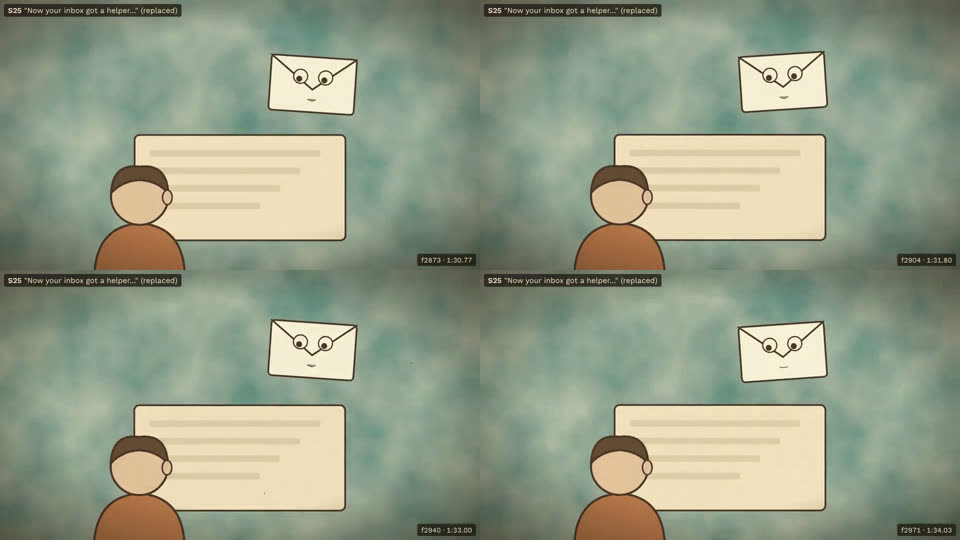
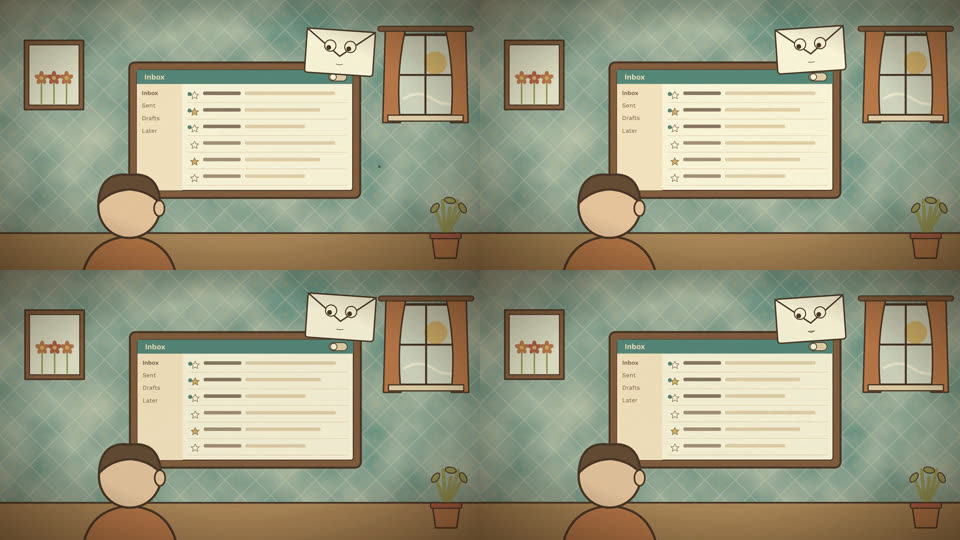
M4 section 6 (Verse 2): study, hallway and living-room sets; inbox, calendar, cat, TV
Claude-Session: https://claude.ai/code/session_01U1tVYjDQe516Mp7MHbmFPv

diff --git a/remotion/src/shots/Lesson.tsx b/remotion/src/shots/Lesson.tsx
@@ -3,6 +3,7 @@
 import React from "react";
 import { Wash } from "../film/Paper";
 import { Caption, Chalkboard, Door, Envelope, Person, Kid, Slate, TV, Tile } from "../components/props";
+import { Picture, Plant, Lamp, Rug, Window } from "../components/sets";
 import { Narrator } from "../rigs/Narrator";
 import { Switch } from "../rigs/Switch";
 import { BUBBLE, SANS } from "../theme/fonts";
@@ -147,52 +148,109 @@ export const S24: ShotC = ({ f, g }) => (
   </Bg>
 );
 
-// S25: "Now your inbox got a helper…" (replaced): an envelope with eyes reads over a cartoon person's shoulder
-export const S25: ShotC = ({ f }) => (
-  <Bg id="s25" seed={25} base={C.teal}>
-    <rect x={540} y={540} width={840} height={420} rx={20} fill={C.cream} stroke={C.ink} strokeWidth={7} />
-    {[0, 1, 2, 3].map((i) => <rect key={i} x={600} y={600 + i * 70} width={680 - i * 80} height={26} rx={8} fill={C.creamShade} />)}
-    <g transform="translate(560, 760) scale(1.2)"><Person shirt={C.orange} facing={1} /></g>
-    <g transform={`translate(${1230 + Math.sin(f / 10) * 20}, ${330 + Math.sin(f / 7) * 10}) rotate(${Math.sin(f / 10) * 4})`}><Envelope look={[-0.4, 1]} mouth={f % 40 < 20 ? "B" : "X"} /></g>
+// the inbox screen on the study desk (S25-S26): a generic mail client, a folder column and mail rows with unread
+// dots and stars; nothing branded. `toggle` is the tiny "smart features" switch in its corner (0 off, 1 on)
+const Inbox: React.FC<{ toggle?: number }> = ({ toggle = 0 }) => (
+  <g>
+    <rect x={-460} y={-270} width={920} height={540} rx={22} fill={C.cardigan} stroke={C.ink} strokeWidth={8} />
+    <rect x={-430} y={-240} width={860} height={480} rx={10} fill={C.white} stroke={C.ink} strokeWidth={4} />
+    <rect x={-430} y={-240} width={860} height={56} fill={C.teal} />
+    <text x={-400} y={-202} fontFamily={SANS} fontWeight={600} fontSize={30} fill={C.cream}>Inbox</text>
+    <rect x={-430} y={-184} width={180} height={424} fill={C.cream} />
+    {["Inbox", "Sent", "Drafts", "Later"].map((t, i) => <text key={t} x={-410} y={-140 + i * 50} fontFamily={SANS} fontSize={24} fontWeight={i ? 400 : 600} fill={C.inkSoft}>{t}</text>)}
+    {Array.from({ length: 6 }, (_, i) => (
+      <g key={i} transform={`translate(-230, ${-160 + i * 66})`}>
+        {i < 3 && <circle cx={10} cy={16} r={8} fill={C.teal} />}
+        <path d="M30,6 l5,10 l11,1 l-8,7 l2,11 l-10,-6 l-10,6 l2,-11 l-8,-7 l11,-1 Z" fill={i % 3 === 1 ? C.mustard : "none"} stroke={C.inkSoft} strokeWidth={2} />
+        <rect x={64} y={6} width={150} height={14} rx={5} fill={i < 3 ? C.ink : C.inkSoft} opacity={0.7} />
+        <rect x={230} y={6} width={360 - (i % 3) * 60} height={14} rx={5} fill={C.creamShade} />
+        <line x1={0} y1={50} x2={640} y2={50} stroke={C.creamShade} strokeWidth={2} />
+      </g>
+    ))}
+    <g transform="translate(370, -212)">
+      <rect x={-36} y={-16} width={72} height={32} rx={16} fill={toggle > 0.5 ? C.avocado : C.creamShade} stroke={C.ink} strokeWidth={3} />
+      <circle cx={-18 + toggle * 36} r={13} fill={C.white} stroke={C.ink} strokeWidth={3} />
+    </g>
+  </g>
+);
+
+// the study wall behind the inbox: diamond wallpaper, a window, a plant, a framed picture; a desk edge
+const StudyWall: React.FC<{ id: string; g: number; picture?: boolean; children: React.ReactNode }> = ({ id, g, picture = true, children }) => (
+  <Bg id={id} seed={25} base={C.teal}>
+    <Wallpaper id={id} kind="diamond" a={C.cream} b={C.mustard} opacity={0.2} />
+    <g transform="translate(1700, 300)"><Window w={260} h={320} /></g>
+    {picture && <g transform="translate(220, 300)"><Picture kind="flowers" w={200} h={240} /></g>}
+    <rect x={-20} y={930} width={W + 40} height={170} fill="#a8703e" stroke={C.ink} strokeWidth={7} />
+    <g transform="translate(1780, 940)"><Plant sway={Math.sin(g / 50)} /></g>
+    {children}
   </Bg>
 );
 
-// S26: "A lawsuit says it flipped itself last fall…": a calendar flips to an autumn page; while everyone looks away, a
-// tiny switch in the inbox's corner flips ON. Caption held through S28
-export const S26: ShotC = ({ f, len }) => {
+// S25: "Now your inbox got a helper…" (replaced): an envelope with eyes reads over a cartoon person's shoulder (the
+// lawsuit caption starts with S26, as the brief has it)
+export const S25: ShotC = ({ f, g }) => (
+  <StudyWall id="s25" g={g}>
+    <g transform="translate(980, 520)"><Inbox /></g>
+    <g transform="translate(520, 800) scale(1.3)"><Person shirt={C.orange} facing={1} /></g>
+    <g transform={`translate(${1340 + Math.sin(f / 10) * 20}, ${200 + Math.sin(f / 7) * 10}) rotate(${Math.sin(f / 10) * 4}) scale(0.8)`}><Envelope look={[-0.6, 1]} mouth={mouthAt(g, "narrator") === "X" ? "B" : "X"} /></g>
+  </StudyWall>
+);
+
+// S26: "A lawsuit says it flipped itself last fall…": a calendar flips from September to an autumn October, leaves
+// drifting past; while everyone looks at it, the tiny switch in the inbox's corner flips ON. Caption held to S28
+export const S26: ShotC = ({ f, g, len }) => {
   const flip = ez(f, 6, 20);
+  const on = ez(f, len * 0.6, len * 0.62);
   return (
-    <Bg id="s26" seed={26} base={C.teal}>
-      <g transform="translate(560, 480)">
+    <StudyWall id="s26" g={g} picture={false}>
+      <g transform="translate(470, 470)">
         <rect x={-250} y={-280} width={500} height={560} rx={14} fill={C.white} stroke={C.ink} strokeWidth={7} />
         <rect x={-250} y={-280} width={500} height={120} rx={14} fill={flip > 0.5 ? C.orange : C.avocado} stroke={C.ink} strokeWidth={7} />
         <text y={-200} textAnchor="middle" fontFamily={BUBBLE} fontSize={60} fill={C.cream}>{flip > 0.5 ? "OCTOBER" : "SEPTEMBER"}</text>
-        {flip > 0.5 && [[-120, 60], [80, 120], [-40, 200]].map(([x, y], i) => <path key={i} d={`M${x},${y} q20,-30 40,0 q-20,30 -40,0`} fill={C.orange} stroke={C.ink} strokeWidth={3} />)}
+        {Array.from({ length: 30 }, (_, d) => (
+          <text key={d} x={-210 + (d % 7) * 66} y={-110 + Math.floor(d / 7) * 72} fontFamily={SANS} fontSize={28} fill={d === 9 && flip > 0.5 ? C.red : C.inkSoft} fontWeight={d === 9 && flip > 0.5 ? 600 : 400}>{d + 1}</text>
+        ))}
+        {flip > 0.5 && <circle cx={-210 + 2 * 66 + 14} cy={-110 + 72 - 10} r={30} fill="none" stroke={C.red} strokeWidth={4} />}
         <path d={`M-250,-160 L250,-160 L250,${-160 + (1 - flip) * 440} L-250,${-160 + (1 - flip) * 440} Z`} fill={C.white} stroke={C.ink} strokeWidth={5} opacity={1 - flip} />
       </g>
-      <g transform="translate(1380, 480)">
-        <rect x={-300} y={-220} width={600} height={440} rx={20} fill={C.cream} stroke={C.ink} strokeWidth={7} />
-        <g transform="translate(0, 20) scale(0.6)"><Envelope look={[-1, 0]} /></g>
-        <g transform="translate(230, -150) scale(0.5)">
-          <rect x={-50} y={-30} width={100} height={60} rx={30} fill={f > len * 0.6 ? C.avocado : C.creamShade} stroke={C.ink} strokeWidth={6} />
-          <circle cx={f > len * 0.6 ? 20 : -20} r={22} fill={C.white} stroke={C.ink} strokeWidth={5} />
-        </g>
+      {flip > 0.5 && [0, 1, 2, 3].map((k) => {
+        const t = ((f + k * 19) % 70) / 70;
+        return <path key={k} transform={`translate(${200 + k * 260 + Math.sin(t * 7 + k) * 60}, ${t * 900}) rotate(${t * 300 + k * 40})`} d="M0,-20 q20,10 0,40 q-20,-30 0,-40 Z" fill={[C.orange, C.red, C.mustard, C.orange][k]} stroke={C.ink} strokeWidth={3} />;
+      })}
+      <g transform="translate(1250, 520) scale(0.75)"><Inbox toggle={on} /></g>
+      <g transform="translate(1250, 520) scale(0.75)">
+        <g transform="translate(-40, 40) scale(0.6)"><Envelope look={[-1, -0.4]} /></g>
       </g>
+      {on > 0 && on < 1 && <circle cx={1250 + 370 * 0.75} cy={520 - 212 * 0.75} r={40} fill={C.mustard} opacity={0.4} />}
+      <Caption text={LAWSUIT} />
+    </StudyWall>
+  );
+};
+
+// the hallway with the SETTINGS door (S27): striped wallpaper, a wainscot, a runner rug, a coat rack and a picture
+// S27: V07 "And what's the company say?": Switch knocks on a door marked "SETTINGS"; the door rattles
+export const S27: ShotC = ({ f, g }) => {
+  const knock = f % 12 < 4;
+  return (
+    <Bg id="s27" seed={27} base={C.mustard}>
+      <Wallpaper id="s27" kind="stripe" a={C.mustard} b={C.cream} opacity={0.22} />
+      <Wash id="s27" color={C.avocado} opacity={0.6}><rect x={-40} y={620} width={W + 80} height={280} /></Wash>
+      <rect x={-20} y={900} width={W + 40} height={200} fill="#b98a5a" stroke={C.ink} strokeWidth={6} />
+      <path d="M200,1080 L560,910 L1700,910 L1900,1080 Z" fill={C.red} stroke={C.ink} strokeWidth={5} opacity={0.8} />
+      <g transform="translate(340, 300)"><Picture kind="hills" w={240} h={180} /></g>
+      <g transform="translate(1680, 900)">
+        <line x1={0} y1={0} x2={0} y2={-560} stroke={C.cardigan} strokeWidth={16} />
+        {[-1, 1].map((k) => <line key={k} x1={0} y1={-520} x2={k * 70} y2={-560} stroke={C.cardigan} strokeWidth={10} />)}
+        <path d="M-60,-500 Q-90,-380 -70,-260 L10,-260 Q20,-380 -10,-500 Z" fill={C.teal} stroke={C.ink} strokeWidth={5} />
+        <ellipse cx={0} cy={0} rx={70} ry={16} fill={C.cardiganShade} stroke={C.ink} strokeWidth={5} />
+      </g>
+      <g transform={`translate(${1100 + (knock ? 3 : 0)}, 900)`}><Door label="SETTINGS" /></g>
+      <g transform={`translate(700, 700) scale(0.62)`}><Switch pose="curious" mouth={mouthAt(g, "switch")} armR={70 + Math.abs(Math.sin(f / 3)) * 30} look={[1, 0]} blink={blink(g, 6)} /></g>
+      {knock && <text x={860} y={520} fontFamily={BUBBLE} fontSize={56} fill={C.ink} transform="rotate(-6, 860, 520)">knock</text>}
       <Caption text={LAWSUIT} />
     </Bg>
   );
 };
-
-// S27: V07 "And what's the company say?": Switch knocks on a door marked "SETTINGS"
-export const S27: ShotC = ({ f, g }) => (
-  <Bg id="s27" seed={27} base={C.mustard}>
-    <rect x={-20} y={900} width={W + 40} height={200} fill={C.inkSoft} opacity={0.6} />
-    <g transform="translate(1100, 900)"><Door label="SETTINGS" /></g>
-    <g transform={`translate(700, 700) scale(0.62)`}><Switch pose="curious" mouth={mouthAt(g, "switch")} armR={70 + Math.abs(Math.sin(f / 3)) * 30} look={[1, 0]} /></g>
-    {f % 12 < 4 && <text x={880} y={560} fontFamily={BUBBLE} fontSize={48} fill={C.ink}>knock</text>}
-    <Caption text={LAWSUIT} />
-  </Bg>
-);
 
 // S28: "That they didn't, and here's the door: / Just a menu, then a menu…" (replaced): the menu tunnel
 export const S28: ShotC = ({ f }) => (
@@ -202,88 +260,119 @@ export const S28: ShotC = ({ f }) => (
   </>
 );
 
-// the living room at night with the TV (S29); at sunrise with the new tile (S30)
-const Living: React.FC<{ id: string; night: boolean; children: React.ReactNode }> = ({ id, night, children }) => (
+// the living room (S29-S33): striped wallpaper, a window (moon, or sunrise with sunbeams), a sofa with a cat on it
+// (asleep at night, sitting up by day), a floor lamp, a plant, a rug, a clock, the TV on a low cabinet
+const Living: React.FC<{ id: string; night: boolean; g: number; children: React.ReactNode }> = ({ id, night, g, children }) => (
   <Bg id={id} seed={29} base={night ? C.night : C.mustard}>
-    <rect x={1460} y={140} width={320} height={380} fill={night ? "#2c3d63" : C.cream} stroke={C.ink} strokeWidth={10} />
-    {night ? <circle cx={1660} cy={260} r={50} fill={C.cream} /> : <Wash id={id} color={C.orange} opacity={0.6}><circle cx={1620} cy={470} r={90} /></Wash>}
-    <rect x={0} y={880} width={W} height={200} fill={C.cardigan} stroke={C.ink} strokeWidth={7} />
+    <Wallpaper id={id} kind="stripe" a={night ? "#2c3d63" : C.mustard} b={night ? C.night : C.cream} opacity={night ? 0.35 : 0.22} />
+    <g transform="translate(1620, 320)"><Window w={300} h={360} sky={night ? "#16203a" : "#f2c98a"} sun={night ? "moon" : "sun"} curtain={night ? "#4a3a5a" : C.orange} /></g>
+    {!night && <path d="M1500,420 L1180,1080 L1500,1080 L1760,500 Z" fill={C.cream} opacity={0.12} />}
+    <g transform="translate(1220, 160)" opacity={night ? 0.7 : 1}><Clock t={night ? (2 * 60 + 40) * 60 + g / 30 : (6 * 60 + 45) * 60 + g / 30} r={50} /></g>
+    <rect x={-20} y={880} width={W + 40} height={220} fill={night ? "#1b2440" : "#b98a5a"} stroke={C.ink} strokeWidth={7} />
+    <g transform="translate(760, 990)"><Rug w={980} color={night ? "#4a3a5a" : C.orange} /></g>
+    {/* the sofa, right of the TV, and the cat */}
+    <g transform="translate(1560, 820)">
+      <rect x={-260} y={-150} width={520} height={130} rx={40} fill={night ? "#5a3a3a" : C.red} stroke={C.ink} strokeWidth={7} />
+      <rect x={-280} y={-40} width={560} height={110} rx={30} fill={night ? "#5a3a3a" : C.red} stroke={C.ink} strokeWidth={7} />
+      {[-1, 1].map((k) => <rect key={k} x={k * 260 - 40} y={-90} width={80} height={170} rx={30} fill={night ? "#4a2e2e" : C.orange} stroke={C.ink} strokeWidth={6} />)}
+      <g transform={`translate(-100, -70) scale(1, ${night ? breath(g, 7) * 0.95 : 1})`}>
+        <ellipse cx={0} cy={0} rx={70} ry={night ? 34 : 44} fill={C.inkSoft} stroke={C.ink} strokeWidth={5} />
+        <circle cx={night ? 56 : 40} cy={night ? -6 : -40} r={30} fill={C.inkSoft} stroke={C.ink} strokeWidth={5} />
+        {[-1, 1].map((k) => <path key={k} d={`M${(night ? 56 : 40) + k * 16},${(night ? -6 : -40) - 22} l${k * 8},-22 l${-k * 18},10 Z`} fill={C.inkSoft} stroke={C.ink} strokeWidth={4} />)}
+        {night ? <text x={90} y={-40} fontFamily={BUBBLE} fontSize={34} fill={C.cream} opacity={0.5 + 0.5 * Math.sin(g / 15)}>z</text>
+          : [-1, 1].map((k) => <circle key={k} cx={40 + k * 11} cy={-44} r={5} fill={C.mustard} />)}
+        <path d="M-70,10 q-50,0 -40,-40" fill="none" stroke={C.ink} strokeWidth={8} strokeLinecap="round" />
+      </g>
+    </g>
+    <g transform="translate(120, 640)" opacity={night ? 0.6 : 1}><Lamp on={!night} /></g>
+    <g transform="translate(240, 900)"><Plant sway={Math.sin(g / 50)} s={0.9} /></g>
+    {/* the TV cabinet */}
+    <rect x={260} y={820} width={1000} height={80} fill={C.cardiganShade} stroke={C.ink} strokeWidth={6} />
+    {night && <rect x={-20} y={-20} width={W + 40} height={H + 40} fill="#0d1222" opacity={0.25} />}
     {children}
   </Bg>
 );
 
-// S29: "Then the TV got an update in the middle of the night,": a TV with a progress bar, the moon in the window
-export const S29: ShotC = ({ f, len }) => (
-  <Living id="s29" night>
-    <g transform="translate(760, 560)">
-      <TV night w={900}>
+// S29: "Then the TV got an update in the middle of the night,": the TV glows with a progress bar; the moon outside
+export const S29: ShotC = ({ f, g, len }) => (
+  <Living id="s29" night g={g}>
+    <path d="M760,560 L320,1080 L1200,1080 Z" fill="#9ab0d8" opacity={0.08} />
+    <g transform="translate(760, 520)">
+      <TV night w={760}>
         <rect x={460} y={500} width={1000} height={70} rx={35} fill="none" stroke={C.cream} strokeWidth={10} />
         <rect x={470} y={510} width={980 * ez(f, 0, len)} height={50} rx={25} fill={C.mustard} />
         <text x={960} y={440} textAnchor="middle" fontFamily={BUBBLE} fontSize={80} fill={C.cream}>UPDATING…</text>
+        <text x={960} y={680} textAnchor="middle" fontFamily={SANS} fontSize={44} fill={C.cream} opacity={0.7}>Do not turn off your TV</text>
       </TV>
     </g>
   </Living>
 );
 
 // the TV home screen: a row of generic tiles plus the new one
-const Home: React.FC<{ wink: number; tile?: { x: number; y: number; s: number } }> = ({ wink, tile }) => (
+const Home: React.FC<{ wink: number; tile?: boolean }> = ({ wink, tile = true }) => (
   <>
-    {[C.teal, C.orange, C.avocado, C.red].map((c, i) => <g key={i} transform={`translate(${360 + i * 400}, 380)`}><Tile color={c} glyph={(["play", "note", "star", "play"] as const)[i]} size={300} /></g>)}
-    {!tile && <g transform="translate(560, 780)"><Tile color={C.mustard} glyph="spark" size={300} wink={wink} /></g>}
+    <rect x={0} y={0} width={1920} height={110} fill={C.teal} opacity={0.9} />
+    <text x={80} y={76} fontFamily={SANS} fontWeight={600} fontSize={54} fill={C.cream}>Home</text>
+    {[C.teal, C.orange, C.avocado, C.red].map((c, i) => <g key={i} transform={`translate(${360 + i * 400}, 400)`}><Tile color={c} glyph={(["play", "note", "star", "play"] as const)[i]} size={300} /></g>)}
+    {tile && <g transform="translate(560, 800)"><Tile color={C.mustard} glyph="spark" size={300} wink={wink} /></g>}
   </>
 );
 
 // S30: "And a brand-new tile was waiting…": sunrise; a new tile sits among the others, and winks
-export const S30: ShotC = ({ f, len }) => (
-  <Living id="s30" night={false}>
-    <g transform="translate(760, 560)"><TV w={900}><Home wink={f > len * 0.6 && f < len * 0.75 ? 1 : 0} /></TV></g>
+export const S30: ShotC = ({ f, g, len }) => (
+  <Living id="s30" night={false} g={g}>
+    <g transform="translate(760, 520)"><TV w={760}><Home wink={f > len * 0.6 && f < len * 0.75 ? 1 : 0} /></TV></g>
+    {f > len * 0.6 && f < len * 0.8 && <text x={760} y={240} textAnchor="middle" fontFamily={BUBBLE} fontSize={64} fill={C.ink}>✦ new! ✦</text>}
   </Living>
 );
 
-// S31-S33: the tile, the trash can that turns into a HIDE box, and the tile inside, waving
+// S31-S33: in front of the TV: Switch drags the tile out toward a trash can, which turns into a HIDE box; the tile
+// waves from inside it
 const Trash: React.FC<{ f: number; g: number; phase: 1 | 2 | 3 }> = ({ f, g, phase }) => {
   const drag = phase === 1 ? ez(f, 0, 30) : 1;
   const morph = phase === 2 ? ez(f, 4, 14) : phase === 3 ? 1 : 0;
   const lid = phase === 3 ? ez(f, 4, 14) : 0;
   return (
-    <Bg id="s31" seed={31} base={C.cream}>
-      <g transform="translate(1380, 700)">
+    <Living id="s31" night={false} g={g}>
+      <g transform="translate(760, 520)"><TV w={760}><Home wink={0} tile={false} /></TV></g>
+      <g transform="translate(1180, 760)">
         {morph < 0.5 ? (
-          <g><path d="M-130,-150 L130,-150 L105,170 L-105,170 Z" fill={C.sleeve} stroke={C.ink} strokeWidth={7} />
-            {[-60, 0, 60].map((x) => <line key={x} x1={x} y1={-110} x2={x * 0.85} y2={130} stroke={C.ink} strokeWidth={5} />)}
-            <rect x={-150} y={-190} width={300} height={40} rx={10} fill={C.sleeveShade} stroke={C.ink} strokeWidth={6} /></g>
+          <g transform={`scale(${1 - bump(f, 9, 5) * 0.1})`}><path d="M-110,-130 L110,-130 L90,140 L-90,140 Z" fill={C.sleeve} stroke={C.ink} strokeWidth={7} />
+            {[-50, 0, 50].map((x) => <line key={x} x1={x} y1={-95} x2={x * 0.85} y2={110} stroke={C.ink} strokeWidth={5} />)}
+            <rect x={-128} y={-166} width={256} height={36} rx={10} fill={C.sleeveShade} stroke={C.ink} strokeWidth={6} /></g>
         ) : (
-          <g><rect x={-170} y={-150} width={340} height={320} fill={C.mustard} stroke={C.ink} strokeWidth={7} />
-            <text y={50} textAnchor="middle" fontFamily={BUBBLE} fontSize={76} fill={C.ink}>HIDE</text>
-            <g transform={`translate(-180, -150) rotate(${-lid * 70})`}><rect x={0} y={-36} width={360} height={36} fill={C.orange} stroke={C.ink} strokeWidth={6} /></g>
-            {lid > 0.5 && <g transform="translate(0, -150) scale(0.7)"><Tile color={C.mustard} glyph="spark" size={260} /><path d={`M120,-60 q30,${Math.sin(f / 3) * 20 - 30} 50,-50`} stroke={C.ink} strokeWidth={10} fill="none" strokeLinecap="round" /></g>}
+          <g><rect x={-150} y={-130} width={300} height={270} fill={C.mustard} stroke={C.ink} strokeWidth={7} />
+            <text y={40} textAnchor="middle" fontFamily={BUBBLE} fontSize={68} fill={C.ink}>HIDE</text>
+            <g transform={`translate(-160, -130) rotate(${-lid * 70})`}><rect x={0} y={-32} width={320} height={32} fill={C.orange} stroke={C.ink} strokeWidth={6} /></g>
+            {lid > 0.5 && <g transform="translate(0, -140) scale(0.6)"><Tile color={C.mustard} glyph="spark" size={260} /><path d={`M120,-60 q30,${Math.sin(f / 3) * 20 - 30} 50,-50`} stroke={C.ink} strokeWidth={10} fill="none" strokeLinecap="round" /></g>}
           </g>
         )}
+        {phase === 2 && f > 4 && f < 18 && [0, 1, 2, 3].map((k) => <path key={k} d={`M${Math.cos(k * 1.6) * 200},${Math.sin(k * 1.6) * 160 - 40} l${Math.cos(k * 1.6) * 40},${Math.sin(k * 1.6) * 30}`} stroke={C.ink} strokeWidth={6} strokeLinecap="round" />)}
       </g>
-      {phase < 3 && <g transform={`translate(${500 + drag * 700}, ${440 + drag * 160}) scale(${1 - drag * 0.35})`}><Tile color={C.mustard} glyph="spark" size={260} /></g>}
-      <g transform={`translate(${phase === 1 ? 300 + drag * 620 : 860}, 760) scale(0.55)`}>
+      {phase < 3 && <g transform={`translate(${560 + drag * 420}, ${600 + drag * 80}) scale(${0.62 - drag * 0.22})`}><Tile color={C.mustard} glyph="spark" size={260} /></g>}
+      <g transform={`translate(${phase === 1 ? 400 + drag * 400 : 800}, 820) scale(0.5)`}>
         <Switch pose={phase === 3 ? "sad" : "curious"} mouth={mouthAt(g, "switch")} look={[1, -0.2]} armR={phase === 1 ? 120 : 40} blink={blink(g, 4)} />
       </g>
-    </Bg>
+    </Living>
   );
 };
 export const S31: ShotC = ({ f, g }) => <Trash f={f} g={g} phase={1} />;
 export const S32: ShotC = ({ f, g }) => <Trash f={f} g={g} phase={2} />;
 export const S33: ShotC = ({ f, g }) => <Trash f={f} g={g} phase={3} />;
 
-// S34: "…Next verse!": the Narrator yanks down a pull-down screen; whip transition
+// S34: "…Next verse!": back in the classroom, the Narrator yanks down a pull-down screen; whip transition
 export const S34: ShotC = ({ f, g, len }) => {
   const pull = ez(f, 2, 12);
   const whip = ez(f, len - 8, len);
   return (
-    <Bg id="s34" seed={34} base={C.avocado}>
-      <g transform={`translate(${-whip * W * 1.2}, 0)`}>
-        <g transform="translate(1460, 700)"><Narrator mouth={mouthAt(g, "narrator")} armR="pull" armL="down" /></g>
-        <rect x={200} y={60} width={900} height={30} rx={10} fill={C.cardigan} stroke={C.ink} strokeWidth={6} />
-        <rect x={230} y={90} width={840} height={pull * 640} fill={C.white} stroke={C.ink} strokeWidth={6} />
-        {pull > 0.9 && <g transform="translate(650, 420)"><Slate text="NEXT VERSE!" w={640} color={C.teal} /></g>}
-      </g>
-      {whip > 0 && <rect x={0} y={0} width={W} height={H} fill={C.cream} opacity={whip * 0.5} />}
-    </Bg>
+    <div style={{ position: "absolute", inset: 0, transform: `translateX(${-whip * W * 1.2}px)` }}>
+      <NarratorSet g={g} board={["OPT-IN", "OPT-OUT", "DEFAULT"]} arm="point" size={80}>
+        <rect x={140} y={60} width={940} height={30} rx={10} fill={C.cardigan} stroke={C.ink} strokeWidth={6} />
+        <rect x={170} y={90} width={880} height={pull * 600} fill={C.white} stroke={C.ink} strokeWidth={6} />
+        <rect x={570} y={90 + pull * 600 - 6} width={80} height={24} rx={8} fill={C.cardiganShade} stroke={C.ink} strokeWidth={4} />
+        {pull > 0.9 && <g transform="translate(610, 380)"><Slate text="NEXT VERSE!" w={640} color={C.teal} /></g>}
+      </NarratorSet>
+      {whip > 0 && <div style={{ position: "absolute", inset: 0, background: C.cream, opacity: whip * 0.5 }} />}
+    </div>
   );
 };

diff --git a/log/production_log.md b/log/production_log.md
@@ -145,3 +145,9 @@ Append-only. One entry per action: timestamp, step (shot ID where relevant), wha
 - **What:** The lesson board sits in the classroom (striped wallpaper, the clock, the pennant, a floor), with a chalk tray; each heading writes itself on in chalk with a puff of dust and an underline; the Narrator is chest-up at the right, cropped by the frame, turned to the board. S19: a plate of chocolate-chip cookies; the kid says "sure!". S20: the maze is built of labelled menu panels ("Settings", "Privacy", "More", "Advanced", "Personalize", "Other", "Help") with an "EXIT?" arrow; Switch watches from the chalk tray. S21: a fork and napkin. S22: the stamp slams down on the plate (the frame shakes), lifts, and leaves "YOU CHOSE THIS" and ink flecks. S23: a dust puff when the test papers thud onto the desk. S24: papers flutter down around the buried Switch.
 - **Agent review:** caught an off-board "EXIT?", Switch hidden behind the Narrator, and a stamp that missed the plate and hid its own print; fixed.
 - **Command:** `scripts/m4_section.sh Sec05-Lesson sec05_lesson`
+
+## 2026-11-06T12:55:00-05:00 — M4 detail pass: section 6, Verse 2 (S25–S34)
+
+- **What:** The study (S25–S26): a generic mail client on the desk (folder column, mail rows with unread dots and stars, a tiny "smart features" switch in the corner), diamond wallpaper, a window, a plant, a framed picture. S26: a calendar with real date grids flips from September to October (the 10th circled), leaves drift past, and while the envelope looks at the calendar, the inbox's switch flips ON with a glint. S27: a hallway (striped wallpaper, wainscot, runner rug, coat rack, picture); the door rattles on each knock. The living room (S29–S33): striped wallpaper, a window (moon; sunrise with sunbeams), a clock (2:40 a.m.; 6:45 a.m.), a sofa with a cat (asleep, then sitting up), a lamp, a plant, a rug, the TV on its cabinet; S29's screen says "Do not turn off your TV"; S30's home screen has a header, and the new tile winks with "new!"; S31–S33 happen in front of the TV in the same room. S34 is back in the classroom, with the pull-down screen over the chalkboard. The lawsuit caption runs S26–S28, as the brief has it.
+- **Agent review:** caught the caption starting a shot early (S25), the person cropped to a head-top, and the calendar overlapping a picture; fixed.
+- **Command:** `scripts/m4_section.sh Sec06-Verse2 sec06_verse2`

diff --git a/log/renders.md b/log/renders.md
@@ -57,3 +57,7 @@ Every render: timestamp, shot ID, composition, props, commit hash, output, conta
 ## 2026-11-06T12:28 — M4 section 5, the Lesson
 
 - **Shots:** S19–S24. **Composition:** `Sec05-Lesson`, 896 frames. **Command:** `scripts/m4_section.sh Sec05-Lesson sec05_lesson`. **Commit:** built on 72b3204 + this entry's changes.
+
+## 2026-11-06T12:52 — M4 section 6, Verse 2
+
+- **Shots:** S25–S33 (S34 runs into section 7). **Composition:** `Sec06-Verse2`, 836 frames. **Command:** `scripts/m4_section.sh Sec06-Verse2 sec06_verse2`. **Commit:** built on 3748113 + this entry's changes.
